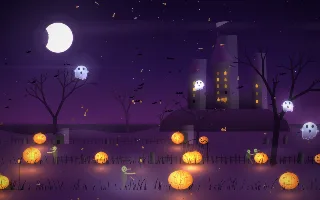
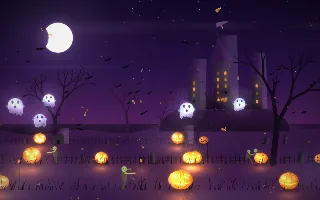
Halloween: lit jack-o'-lantern faces glow white, not black
Version 0.7.3

diff --git a/web/wallpapers/halloween/halloween.js b/web/wallpapers/halloween/halloween.js
@@ -2464,14 +2464,15 @@ class HalloweenAnimationManager {
         const face = this.buildFacePath(p, rx, ry);
 
         // The hole itself, so an unlit lantern still reads as carved
-        ctx.fillStyle = 'rgba(8,3,0,0.88)';
+        // (black when snuffed, fading out as the candle catches)
+        ctx.fillStyle = `rgba(8,3,0,${0.88 * (1 - hwClamp(glow, 0, 1))})`;
         ctx.fill(face);
 
         if (glow > 0.01) {
             ctx.save();
             ctx.globalCompositeOperation = 'lighter';
-            // Hot interior
-            ctx.fillStyle = hwRgba(hwMixRgb(lightRgb, [255, 228, 150], 0.12), hwClamp(glow * 0.55, 0, 1));
+            // Hot interior: a near-white core, tinted by the flame
+            ctx.fillStyle = hwRgba(hwMixRgb(lightRgb, [255, 250, 230], 0.65), hwClamp(glow * 0.95, 0, 1));
             ctx.fill(face);
             // The cut edge catches the most light, so it is the brightest part
             ctx.strokeStyle = hwRgba(hwMixRgb(lightRgb, [255, 245, 215], 0.5), hwClamp(glow * 0.25, 0, 1));

diff --git a/web/wallpapers/jellyfin/jellyfin.js b/web/wallpapers/jellyfin/jellyfin.js
@@ -16,7 +16,7 @@
 // wp:jellyfin:auth, a catalog secret: never exported, never logged.
 
 class JellyfinAnimationManager {
-    static VERSION = '0.7.2';             // the Version Jellyfin sees; tests keep it equal to manifest.json's
+    static VERSION = '0.7.3';             // the Version Jellyfin sees; tests keep it equal to manifest.json's
     static SAVE_EVERY = 10000;            // ms between saved positions
     static POSTER_MS = 180000;            // poster mode moves on every 3 minutes
     static QUICK_POLL = 3000;

diff --git a/SPEC.md b/SPEC.md
@@ -723,7 +723,7 @@ and the commits.
 |---|---|---|
 | fishtank | `depthBlur`, `caustics` (medium) | Whole roster stocked, `fishCount × density` swim, the rest fade out; motes. Low: distant fish sink into the water colour instead of blurring |
 | northern-lights | `bloom`, `reflection` (medium) | Low draws the curtains straight onto the sky (no aurora buffer); blur 1/8 on Medium; stars × density, from baked sprites |
-| halloween | `bloom` (medium), `grain` (high), `fogMid` (medium), `fogFar` (high) | Bats, wisps, candy, leaves × density; bats on a grid; the near fog bank is never shed |
+| halloween | `bloom` (medium), `grain` (high), `fogMid` (medium), `fogFar` (high) | Bats, wisps, candy, leaves × density; bats on a grid; the near fog bank is never shed; a lit jack-o'-lantern's carving glows near-white, black only when snuffed |
 | fireplace | `smoke` (medium) | Coal glows baked per heat level; log buffer cropped to the log band; sparks and coals × density |
 | quest | `crt` (high) | Palette proxy every tier; light map half size on Low; idles while paused; fixed 60 Hz steps (up to 20 catch-up) |
 | advent | — | Doors-at-rest layer, baked glow; treat refreshes, particles and confetti × density; idles between its own capped frames (never fully still: today's treat plays) |
